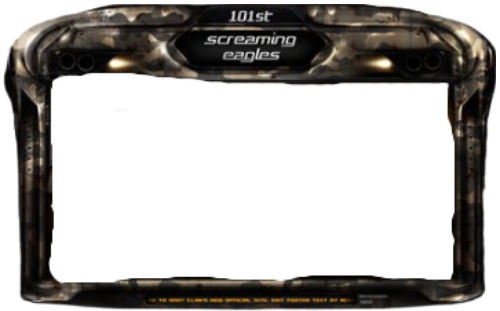
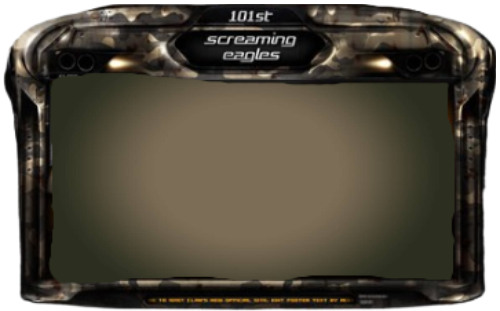
251018hw2

diff --git a/HW2/14112.html b/HW2/14112.html
@@ -1,0 +1,91 @@
+<!DOCTYPE html>
+<html lang="en">
+<head>
+    <meta charset="UTF-8">
+    <meta name="viewport" content="width=device-width, initial-scale=1.0">
+    <title>Document</title>
+    <link href="https://cdn.jsdelivr.net/npm/bootstrap@5.3.3/dist/css/bootstrap.min.css" rel="stylesheet">
+    <script src="https://cdn.jsdelivr.net/npm/bootstrap@5.3.3/dist/js/bootstrap.bundle.min.js"></script>
+    <link rel="stylesheet" href="14112.css">
+</head>
+
+<style>
+body {
+    background-color: gray;
+}
+
+.text-center {
+    color: white;
+}
+</style>
+
+<body class="hero-section">
+       
+<p class="p-5">&amp;</p>
+
+
+        <section id="eagle-container" class="position-relative">
+            <img class="position-absolute start-50 top-0 translate-middle  w-50 mt-5"   src="imgs/eagle.png" alt="eagle" id="eagle">
+        
+        <div class="container">
+            <div class="row custom-row px-5 w-75 position-absolute start-50 top-4 translate-middle-x">
+            
+            <article class="text-center col-12 col-sm-6 ps-5">00001</article>
+            <article class="text-center col-12 col-sm-6 ps-5">00002</article>
+            <article class="text-center col-12 col-sm-6 ps-5">00003</article>
+            <article class="text-center col-12 col-sm-6 ps-5">00004</article>
+            <article class="text-center col-12 col-sm-6 ps-5">00006</article>
+            
+
+
+                <section class="text-center col-12">Medals Archive</section>   
+            <article class="text-center col-12 col-sm-4 ps-5">444444</article>
+            <article class="text-center col-12 col-sm-4">2222222</article>
+            <article class="text-center col-12 col-sm-4 pe-5">3333333</article>
+            </div>
+        </div>
+        
+        
+        </section>
+            <section id="board-container" class="position-relative">
+            <img src="imgs/框框.png" alt="看板" class="img-fluid w-50 mx-auto d-block mt-4 position-absolute start-50 top-1 translate-middle-x"><!--class="img-fluid w-75 mx-auto d-block mb-4"-->
+            </section>
+                 
+        
+
+
+
+        <!-- <div class="container">
+            <div class="row custom-row px-5 w-75 position-absolute start-50 top-3 translate-middle-x">
+            <section class="text-center col-12">Medals Archive</section>   
+            <article class="text-center col-12 col-sm-4 ps-5">1111111</article>
+            <article class="text-center col-12 col-sm-4">2222222</article>
+            <article class="text-center col-12 col-sm-4 pe-5">3333333</article>
+            </div>
+        </div> -->
+
+        
+    
+
+    <!-- 導航列
+    <nav class="navbar navbar-expand-lg navbar-dark">
+        <div class="container-fluid">
+            <a class="navbar-brand text-black" href="#">⚔ 101st Squadron ⚔</a>
+            <button class="navbar-toggler" type="button" data-bs-toggle="collapse" data-bs-target="#navbarNav">
+                <span class="navbar-toggler-icon"></span>
+            </button>
+            <div class="collapse navbar-collapse" id="navbarNav">
+                <ul class="navbar-nav ms-auto">
+                    <li class="nav-item"><a class="nav-link" href="#">HOME</a></li>
+                    <li class="nav-item"><a class="nav-link" href="#">HISTORY</a></li>
+                    <li class="nav-item"><a class="nav-link" href="#">MEDALS</a></li>
+                    <li class="nav-item"><a class="nav-link" href="#">GALLERY</a></li>
+                    <li class="nav-item"><a class="nav-link" href="#">CONTACT</a></li>
+                </ul>
+            </div>
+        </div>
+    </nav> -->
+
+
+</body>
+</html>

diff --git a/HW2/HW2.html b/HW2/HW2.html
@@ -1,25 +1,49 @@
-<!DOCTYPE html>
-<html lang="en">
+<!doctype html>
+<html lang="zh-Hant">
 <head>
-    <meta charset="UTF-8">
-    <meta name="viewport" content="width=device-width, initial-scale=1.0">
-    <title>HW2</title>
-    <link href="css/bootstrap.min.css" rel="stylesheet">
-    <script src="https://cdn.jsdelivr.net/npm/bootstrap@5.3.3/dist/js/bootstrap.bundle.min.js"></script>
-    <link rel="stylesheet" href="css/style.css">
+  <meta charset="utf-8" />
+  <meta name="viewport" content="width=device-width,initial-scale=1" />
+  <title>Screaming Eagles — Layout 範例</title>
+    <link href="https://cdn.jsdelivr.net/npm/bootstrap@5.3.2/dist/css/bootstrap.min.css" rel="stylesheet">
+    <script src="https://cdn.jsdelivr.net/npm/bootstrap@5.3.2/dist/js/bootstrap.bundle.min.js"></script>
+    <link rel="stylesheet" href="style2.css">
 </head>
-<header class="p-5 buttom-0"></header>
-    <header class="hero-section text-center "><!--text-light-->
-        <img class="position-absolute top-0 start-0 z-0" src="imgs/eagle.png" alt="老鷹">
-        <h1 class="position-absolute top-0 start-0 z-1">101st</h1>
 
-
-    </header>
-
-
-
+<p class="py-5">&amp;</p>
 
 <body>
+<div class="container" >
+    <div class="row justify-content-center" id="eagle">
+        <div class="col-9">
+            <div id="圖層1">
+                    <img src="imgs/eagle.png" alt="eagle" class="img-fluid top-0 start-0">
+            </div>
+        </div>
+    </div>
+
+
+
+   
+
+        <div class="row justify-content-center" id="content">
+
+            <div class="col-5">
+                <div id="圖層2">
+                  1111
+                </div>
+            </div>
+
+            <div class="col-8" id="black_border">
+                <div id="圖層3" >
+                    <img style="height: 350px;" alt="black_border" src="imgs/框框.png" class="img-fluid" >
+                </div>
+            </div>
+        </div>
+</div>
     
 </body>
+
+
+    
+
 </html>

diff --git a/HW2/css/style2.css b/HW2/css/style2.css
@@ -1,0 +1,20 @@
+/* hero-section 改為 */
+.hero-section {
+    position: relative;  /* ✅ 必須 */
+    overflow: hidden;
+}
+
+/* eagle 圖片改為 */
+.hero-section img {
+    position: absolute;  /* ✅ z-index 需要這個 */
+    z-index: 0;          /* 放在背後 */
+    top: 0;
+    left: 0;
+}
+
+/* h1 標題改為 */
+h1 {
+    position: relative;  /* ✅ z-index 需要這個 */
+    z-index: 1;          /* 放在前面 */
+}
+

diff --git a/HW2/css/14112.css b/HW2/css/14112.css
@@ -1,0 +1,3 @@
+body {
+    background-color: cadetblue;
+}
